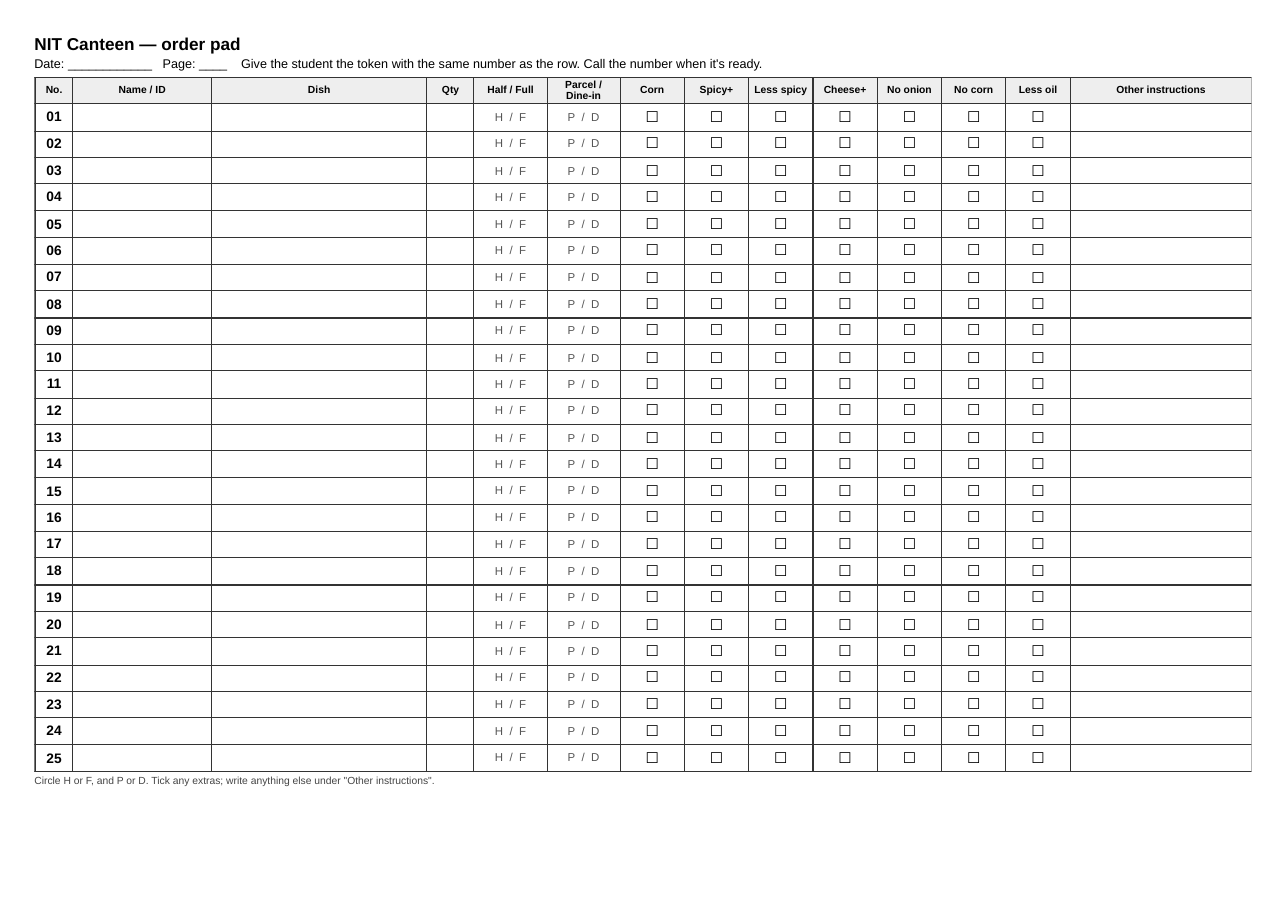
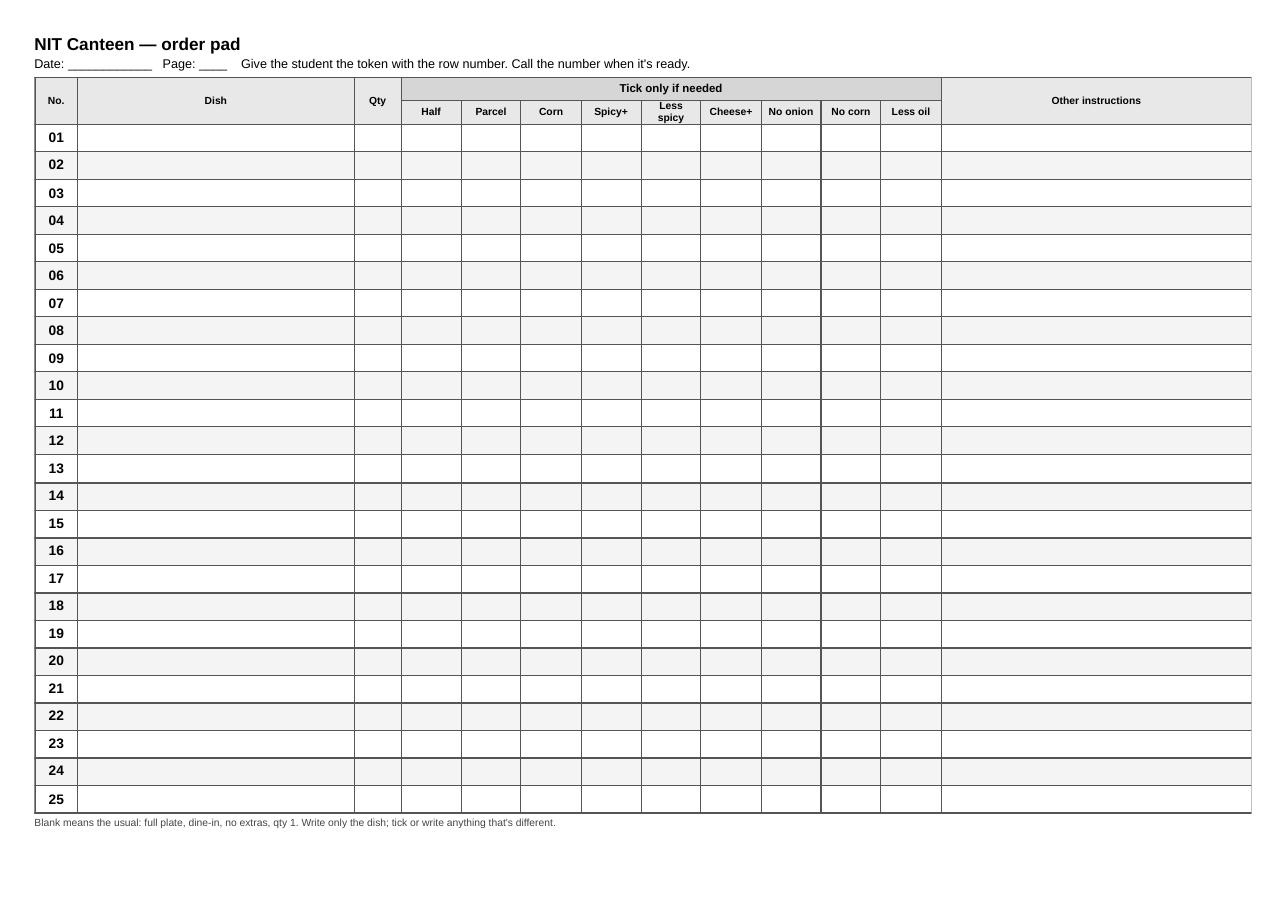
simpler order pad, tick only if needed

Changed region(s): [[0.0311, 0.0616, 0.9635, 0.9241], [0.1554, 0.0924, 0.1865, 0.1232], [0.0932, 0.0924, 0.1243, 0.1232]]

diff --git a/order_pad.html b/order_pad.html
@@ -6,24 +6,26 @@
   h1 { font-size: 15px; margin: 0 0 3px; }
   .meta { font-size: 11px; margin-bottom: 5px; }
   table { border-collapse: collapse; width: 100%; font-size: 10px; }
-  th, td { border: 1px solid #333; padding: 0 3px; height: 5.9mm; }
-  th { background: #eee; font-size: 9px; }
-  td.num { width: 7mm; font-weight: bold; text-align: center; font-size: 12px; }
-  td.who { width: 30mm; }
-  td.dish { width: 48mm; }
+  th, td { border: 1px solid #555; padding: 0 3px; height: 6.1mm; }
+  th { background: #e8e8e8; font-size: 9px; height: 5mm; }
+  th.group { background: #d6d6d6; font-size: 10px; }
+  tr:nth-child(even) td { background: #f4f4f4; }
+  td.num { width: 8mm; font-weight: bold; text-align: center; font-size: 12px; }
+  td.dish { width: 62mm; }
   td.qty { width: 9mm; }
-  td.pick { width: 15mm; text-align: center; color: #555; }
-  th.tick { width: 13mm; }
-  td.tick { text-align: center; font-size: 13px; }
+  th.tick { width: 12mm; }
   .note { font-size: 9px; margin-top: 3px; color: #444; }
 </style></head><body>
 <h1>NIT Canteen &mdash; order pad</h1>
 <div class="meta">Date: ____________ &nbsp; Page: ____ &nbsp;&nbsp;
-Give the student the token with the same number as the row. Call the number when it's ready.</div>
+Give the student the token with the row number. Call the number when it's ready.</div>
 <table>
-<tr><th>No.</th><th>Name / ID</th><th>Dish</th><th>Qty</th><th>Half / Full</th>
-<th>Parcel / Dine-in</th><th class='tick'>Corn</th><th class='tick'>Spicy+</th><th class='tick'>Less spicy</th><th class='tick'>Cheese+</th><th class='tick'>No onion</th><th class='tick'>No corn</th><th class='tick'>Less oil</th><th>Other instructions</th></tr>
-<tr><td class='num'>01</td><td class='who'></td><td class='dish'></td><td class='qty'></td><td class='pick'>H &nbsp;/&nbsp; F</td><td class='pick'>P &nbsp;/&nbsp; D</td><td class='tick'>&#9744;</td><td class='tick'>&#9744;</td><td class='tick'>&#9744;</td><td class='tick'>&#9744;</td><td class='tick'>&#9744;</td><td class='tick'>&#9744;</td><td class='tick'>&#9744;</td><td class='other'></td></tr><tr><td class='num'>02</td><td class='who'></td><td class='dish'></td><td class='qty'></td><td class='pick'>H &nbsp;/&nbsp; F</td><td class='pick'>P &nbsp;/&nbsp; D</td><td class='tick'>&#9744;</td><td class='tick'>&#9744;</td><td class='tick'>&#9744;</td><td class='tick'>&#9744;</td><td class='tick'>&#9744;</td><td class='tick'>&#9744;</td><td class='tick'>&#9744;</td><td class='other'></td></tr><tr><td class='num'>03</td><td class='who'></td><td class='dish'></td><td class='qty'></td><td class='pick'>H &nbsp;/&nbsp; F</td><td class='pick'>P &nbsp;/&nbsp; D</td><td class='tick'>&#9744;</td><td class='tick'>&#9744;</td><td class='tick'>&#9744;</td><td class='tick'>&#9744;</td><td class='tick'>&#9744;</td><td class='tick'>&#9744;</td><td class='tick'>&#9744;</td><td class='other'></td></tr><tr><td class='num'>04</td><td class='who'></td><td class='dish'></td><td class='qty'></td><td class='pick'>H &nbsp;/&nbsp; F</td><td class='pick'>P &nbsp;/&nbsp; D</td><td class='tick'>&#9744;</td><td class='tick'>&#9744;</td><td class='tick'>&#9744;</td><td class='tick'>&#9744;</td><td class='tick'>&#9744;</td><td class='tick'>&#9744;</td><td class='tick'>&#9744;</td><td class='other'></td></tr><tr><td class='num'>05</td><td class='who'></td><td class='dish'></td><td class='qty'></td><td class='pick'>H &nbsp;/&nbsp; F</td><td class='pick'>P &nbsp;/&nbsp; D</td><td class='tick'>&#9744;</td><td class='tick'>&#9744;</td><td class='tick'>&#9744;</td><td class='tick'>&#9744;</td><td class='tick'>&#9744;</td><td class='tick'>&#9744;</td><td class='tick'>&#9744;</td><td class='other'></td></tr><tr><td class='num'>06</td><td class='who'></td><td class='dish'></td><td class='qty'></td><td class='pick'>H &nbsp;/&nbsp; F</td><td class='pick'>P &nbsp;/&nbsp; D</td><td class='tick'>&#9744;</td><td class='tick'>&#9744;</td><td class='tick'>&#9744;</td><td class='tick'>&#9744;</td><td class='tick'>&#9744;</td><td class='tick'>&#9744;</td><td class='tick'>&#9744;</td><td class='other'></td></tr><tr><td class='num'>07</td><td class='who'></td><td class='dish'></td><td class='qty'></td><td class='pick'>H &nbsp;/&nbsp; F</td><td class='pick'>P &nbsp;/&nbsp; D</td><td class='tick'>&#9744;</td><td class='tick'>&#9744;</td><td class='tick'>&#9744;</td><td class='tick'>&#9744;</td><td class='tick'>&#9744;</td><td class='tick'>&#9744;</td><td class='tick'>&#9744;</td><td class='other'></td></tr><tr><td class='num'>08</td><td class='who'></td><td class='dish'></td><td class='qty'></td><td class='pick'>H &nbsp;/&nbsp; F</td><td class='pick'>P &nbsp;/&nbsp; D</td><td class='tick'>&#9744;</td><td class='tick'>&#9744;</td><td class='tick'>&#9744;</td><td class='tick'>&#9744;</td><td class='tick'>&#9744;</td><td class='tick'>&#9744;</td><td class='tick'>&#9744;</td><td class='other'></td></tr><tr><td class='num'>09</td><td class='who'></td><td class='dish'></td><td class='qty'></td><td class='pick'>H &nbsp;/&nbsp; F</td><td class='pick'>P &nbsp;/&nbsp; D</td><td class='tick'>&#9744;</td><td class='tick'>&#9744;</td><td class='tick'>&#9744;</td><td class='tick'>&#9744;</td><td class='tick'>&#9744;</td><td class='tick'>&#9744;</td><td class='tick'>&#9744;</td><td class='other'></td></tr><tr><td class='num'>10</td><td class='who'></td><td class='dish'></td><td class='qty'></td><td class='pick'>H &nbsp;/&nbsp; F</td><td class='pick'>P &nbsp;/&nbsp; D</td><td class='tick'>&#9744;</td><td class='tick'>&#9744;</td><td class='tick'>&#9744;</td><td class='tick'>&#9744;</td><td class='tick'>&#9744;</td><td class='tick'>&#9744;</td><td class='tick'>&#9744;</td><td class='other'></td></tr><tr><td class='num'>11</td><td class='who'></td><td class='dish'></td><td class='qty'></td><td class='pick'>H &nbsp;/&nbsp; F</td><td class='pick'>P &nbsp;/&nbsp; D</td><td class='tick'>&#9744;</td><td class='tick'>&#9744;</td><td class='tick'>&#9744;</td><td class='tick'>&#9744;</td><td class='tick'>&#9744;</td><td class='tick'>&#9744;</td><td class='tick'>&#9744;</td><td class='other'></td></tr><tr><td class='num'>12</td><td class='who'></td><td class='dish'></td><td class='qty'></td><td class='pick'>H &nbsp;/&nbsp; F</td><td class='pick'>P &nbsp;/&nbsp; D</td><td class='tick'>&#9744;</td><td class='tick'>&#9744;</td><td class='tick'>&#9744;</td><td class='tick'>&#9744;</td><td class='tick'>&#9744;</td><td class='tick'>&#9744;</td><td class='tick'>&#9744;</td><td class='other'></td></tr><tr><td class='num'>13</td><td class='who'></td><td class='dish'></td><td class='qty'></td><td class='pick'>H &nbsp;/&nbsp; F</td><td class='pick'>P &nbsp;/&nbsp; D</td><td class='tick'>&#9744;</td><td class='tick'>&#9744;</td><td class='tick'>&#9744;</td><td class='tick'>&#9744;</td><td class='tick'>&#9744;</td><td class='tick'>&#9744;</td><td class='tick'>&#9744;</td><td class='other'></td></tr><tr><td class='num'>14</td><td class='who'></td><td class='dish'></td><td class='qty'></td><td class='pick'>H &nbsp;/&nbsp; F</td><td class='pick'>P &nbsp;/&nbsp; D</td><td class='tick'>&#9744;</td><td class='tick'>&#9744;</td><td class='tick'>&#9744;</td><td class='tick'>&#9744;</td><td class='tick'>&#9744;</td><td class='tick'>&#9744;</td><td class='tick'>&#9744;</td><td class='other'></td></tr><tr><td class='num'>15</td><td class='who'></td><td class='dish'></td><td class='qty'></td><td class='pick'>H &nbsp;/&nbsp; F</td><td class='pick'>P &nbsp;/&nbsp; D</td><td class='tick'>&#9744;</td><td class='tick'>&#9744;</td><td class='tick'>&#9744;</td><td class='tick'>&#9744;</td><td class='tick'>&#9744;</td><td class='tick'>&#9744;</td><td class='tick'>&#9744;</td><td class='other'></td></tr><tr><td class='num'>16</td><td class='who'></td><td class='dish'></td><td class='qty'></td><td class='pick'>H &nbsp;/&nbsp; F</td><td class='pick'>P &nbsp;/&nbsp; D</td><td class='tick'>&#9744;</td><td class='tick'>&#9744;</td><td class='tick'>&#9744;</td><td class='tick'>&#9744;</td><td class='tick'>&#9744;</td><td class='tick'>&#9744;</td><td class='tick'>&#9744;</td><td class='other'></td></tr><tr><td class='num'>17</td><td class='who'></td><td class='dish'></td><td class='qty'></td><td class='pick'>H &nbsp;/&nbsp; F</td><td class='pick'>P &nbsp;/&nbsp; D</td><td class='tick'>&#9744;</td><td class='tick'>&#9744;</td><td class='tick'>&#9744;</td><td class='tick'>&#9744;</td><td class='tick'>&#9744;</td><td class='tick'>&#9744;</td><td class='tick'>&#9744;</td><td class='other'></td></tr><tr><td class='num'>18</td><td class='who'></td><td class='dish'></td><td class='qty'></td><td class='pick'>H &nbsp;/&nbsp; F</td><td class='pick'>P &nbsp;/&nbsp; D</td><td class='tick'>&#9744;</td><td class='tick'>&#9744;</td><td class='tick'>&#9744;</td><td class='tick'>&#9744;</td><td class='tick'>&#9744;</td><td class='tick'>&#9744;</td><td class='tick'>&#9744;</td><td class='other'></td></tr><tr><td class='num'>19</td><td class='who'></td><td class='dish'></td><td class='qty'></td><td class='pick'>H &nbsp;/&nbsp; F</td><td class='pick'>P &nbsp;/&nbsp; D</td><td class='tick'>&#9744;</td><td class='tick'>&#9744;</td><td class='tick'>&#9744;</td><td class='tick'>&#9744;</td><td class='tick'>&#9744;</td><td class='tick'>&#9744;</td><td class='tick'>&#9744;</td><td class='other'></td></tr><tr><td class='num'>20</td><td class='who'></td><td class='dish'></td><td class='qty'></td><td class='pick'>H &nbsp;/&nbsp; F</td><td class='pick'>P &nbsp;/&nbsp; D</td><td class='tick'>&#9744;</td><td class='tick'>&#9744;</td><td class='tick'>&#9744;</td><td class='tick'>&#9744;</td><td class='tick'>&#9744;</td><td class='tick'>&#9744;</td><td class='tick'>&#9744;</td><td class='other'></td></tr><tr><td class='num'>21</td><td class='who'></td><td class='dish'></td><td class='qty'></td><td class='pick'>H &nbsp;/&nbsp; F</td><td class='pick'>P &nbsp;/&nbsp; D</td><td class='tick'>&#9744;</td><td class='tick'>&#9744;</td><td class='tick'>&#9744;</td><td class='tick'>&#9744;</td><td class='tick'>&#9744;</td><td class='tick'>&#9744;</td><td class='tick'>&#9744;</td><td class='other'></td></tr><tr><td class='num'>22</td><td class='who'></td><td class='dish'></td><td class='qty'></td><td class='pick'>H &nbsp;/&nbsp; F</td><td class='pick'>P &nbsp;/&nbsp; D</td><td class='tick'>&#9744;</td><td class='tick'>&#9744;</td><td class='tick'>&#9744;</td><td class='tick'>&#9744;</td><td class='tick'>&#9744;</td><td class='tick'>&#9744;</td><td class='tick'>&#9744;</td><td class='other'></td></tr><tr><td class='num'>23</td><td class='who'></td><td class='dish'></td><td class='qty'></td><td class='pick'>H &nbsp;/&nbsp; F</td><td class='pick'>P &nbsp;/&nbsp; D</td><td class='tick'>&#9744;</td><td class='tick'>&#9744;</td><td class='tick'>&#9744;</td><td class='tick'>&#9744;</td><td class='tick'>&#9744;</td><td class='tick'>&#9744;</td><td class='tick'>&#9744;</td><td class='other'></td></tr><tr><td class='num'>24</td><td class='who'></td><td class='dish'></td><td class='qty'></td><td class='pick'>H &nbsp;/&nbsp; F</td><td class='pick'>P &nbsp;/&nbsp; D</td><td class='tick'>&#9744;</td><td class='tick'>&#9744;</td><td class='tick'>&#9744;</td><td class='tick'>&#9744;</td><td class='tick'>&#9744;</td><td class='tick'>&#9744;</td><td class='tick'>&#9744;</td><td class='other'></td></tr><tr><td class='num'>25</td><td class='who'></td><td class='dish'></td><td class='qty'></td><td class='pick'>H &nbsp;/&nbsp; F</td><td class='pick'>P &nbsp;/&nbsp; D</td><td class='tick'>&#9744;</td><td class='tick'>&#9744;</td><td class='tick'>&#9744;</td><td class='tick'>&#9744;</td><td class='tick'>&#9744;</td><td class='tick'>&#9744;</td><td class='tick'>&#9744;</td><td class='other'></td></tr>
+<tr><th rowspan="2">No.</th><th rowspan="2">Dish</th><th rowspan="2">Qty</th>
+<th class="group" colspan="9">Tick only if needed</th>
+<th rowspan="2">Other instructions</th></tr>
+<tr><th class='tick'>Half</th><th class='tick'>Parcel</th><th class='tick'>Corn</th><th class='tick'>Spicy+</th><th class='tick'>Less spicy</th><th class='tick'>Cheese+</th><th class='tick'>No onion</th><th class='tick'>No corn</th><th class='tick'>Less oil</th></tr>
+<tr><td class='num'>01</td><td class='dish'></td><td class='qty'></td><td class='tick'></td><td class='tick'></td><td class='tick'></td><td class='tick'></td><td class='tick'></td><td class='tick'></td><td class='tick'></td><td class='tick'></td><td class='tick'></td><td class='other'></td></tr><tr><td class='num'>02</td><td class='dish'></td><td class='qty'></td><td class='tick'></td><td class='tick'></td><td class='tick'></td><td class='tick'></td><td class='tick'></td><td class='tick'></td><td class='tick'></td><td class='tick'></td><td class='tick'></td><td class='other'></td></tr><tr><td class='num'>03</td><td class='dish'></td><td class='qty'></td><td class='tick'></td><td class='tick'></td><td class='tick'></td><td class='tick'></td><td class='tick'></td><td class='tick'></td><td class='tick'></td><td class='tick'></td><td class='tick'></td><td class='other'></td></tr><tr><td class='num'>04</td><td class='dish'></td><td class='qty'></td><td class='tick'></td><td class='tick'></td><td class='tick'></td><td class='tick'></td><td class='tick'></td><td class='tick'></td><td class='tick'></td><td class='tick'></td><td class='tick'></td><td class='other'></td></tr><tr><td class='num'>05</td><td class='dish'></td><td class='qty'></td><td class='tick'></td><td class='tick'></td><td class='tick'></td><td class='tick'></td><td class='tick'></td><td class='tick'></td><td class='tick'></td><td class='tick'></td><td class='tick'></td><td class='other'></td></tr><tr><td class='num'>06</td><td class='dish'></td><td class='qty'></td><td class='tick'></td><td class='tick'></td><td class='tick'></td><td class='tick'></td><td class='tick'></td><td class='tick'></td><td class='tick'></td><td class='tick'></td><td class='tick'></td><td class='other'></td></tr><tr><td class='num'>07</td><td class='dish'></td><td class='qty'></td><td class='tick'></td><td class='tick'></td><td class='tick'></td><td class='tick'></td><td class='tick'></td><td class='tick'></td><td class='tick'></td><td class='tick'></td><td class='tick'></td><td class='other'></td></tr><tr><td class='num'>08</td><td class='dish'></td><td class='qty'></td><td class='tick'></td><td class='tick'></td><td class='tick'></td><td class='tick'></td><td class='tick'></td><td class='tick'></td><td class='tick'></td><td class='tick'></td><td class='tick'></td><td class='other'></td></tr><tr><td class='num'>09</td><td class='dish'></td><td class='qty'></td><td class='tick'></td><td class='tick'></td><td class='tick'></td><td class='tick'></td><td class='tick'></td><td class='tick'></td><td class='tick'></td><td class='tick'></td><td class='tick'></td><td class='other'></td></tr><tr><td class='num'>10</td><td class='dish'></td><td class='qty'></td><td class='tick'></td><td class='tick'></td><td class='tick'></td><td class='tick'></td><td class='tick'></td><td class='tick'></td><td class='tick'></td><td class='tick'></td><td class='tick'></td><td class='other'></td></tr><tr><td class='num'>11</td><td class='dish'></td><td class='qty'></td><td class='tick'></td><td class='tick'></td><td class='tick'></td><td class='tick'></td><td class='tick'></td><td class='tick'></td><td class='tick'></td><td class='tick'></td><td class='tick'></td><td class='other'></td></tr><tr><td class='num'>12</td><td class='dish'></td><td class='qty'></td><td class='tick'></td><td class='tick'></td><td class='tick'></td><td class='tick'></td><td class='tick'></td><td class='tick'></td><td class='tick'></td><td class='tick'></td><td class='tick'></td><td class='other'></td></tr><tr><td class='num'>13</td><td class='dish'></td><td class='qty'></td><td class='tick'></td><td class='tick'></td><td class='tick'></td><td class='tick'></td><td class='tick'></td><td class='tick'></td><td class='tick'></td><td class='tick'></td><td class='tick'></td><td class='other'></td></tr><tr><td class='num'>14</td><td class='dish'></td><td class='qty'></td><td class='tick'></td><td class='tick'></td><td class='tick'></td><td class='tick'></td><td class='tick'></td><td class='tick'></td><td class='tick'></td><td class='tick'></td><td class='tick'></td><td class='other'></td></tr><tr><td class='num'>15</td><td class='dish'></td><td class='qty'></td><td class='tick'></td><td class='tick'></td><td class='tick'></td><td class='tick'></td><td class='tick'></td><td class='tick'></td><td class='tick'></td><td class='tick'></td><td class='tick'></td><td class='other'></td></tr><tr><td class='num'>16</td><td class='dish'></td><td class='qty'></td><td class='tick'></td><td class='tick'></td><td class='tick'></td><td class='tick'></td><td class='tick'></td><td class='tick'></td><td class='tick'></td><td class='tick'></td><td class='tick'></td><td class='other'></td></tr><tr><td class='num'>17</td><td class='dish'></td><td class='qty'></td><td class='tick'></td><td class='tick'></td><td class='tick'></td><td class='tick'></td><td class='tick'></td><td class='tick'></td><td class='tick'></td><td class='tick'></td><td class='tick'></td><td class='other'></td></tr><tr><td class='num'>18</td><td class='dish'></td><td class='qty'></td><td class='tick'></td><td class='tick'></td><td class='tick'></td><td class='tick'></td><td class='tick'></td><td class='tick'></td><td class='tick'></td><td class='tick'></td><td class='tick'></td><td class='other'></td></tr><tr><td class='num'>19</td><td class='dish'></td><td class='qty'></td><td class='tick'></td><td class='tick'></td><td class='tick'></td><td class='tick'></td><td class='tick'></td><td class='tick'></td><td class='tick'></td><td class='tick'></td><td class='tick'></td><td class='other'></td></tr><tr><td class='num'>20</td><td class='dish'></td><td class='qty'></td><td class='tick'></td><td class='tick'></td><td class='tick'></td><td class='tick'></td><td class='tick'></td><td class='tick'></td><td class='tick'></td><td class='tick'></td><td class='tick'></td><td class='other'></td></tr><tr><td class='num'>21</td><td class='dish'></td><td class='qty'></td><td class='tick'></td><td class='tick'></td><td class='tick'></td><td class='tick'></td><td class='tick'></td><td class='tick'></td><td class='tick'></td><td class='tick'></td><td class='tick'></td><td class='other'></td></tr><tr><td class='num'>22</td><td class='dish'></td><td class='qty'></td><td class='tick'></td><td class='tick'></td><td class='tick'></td><td class='tick'></td><td class='tick'></td><td class='tick'></td><td class='tick'></td><td class='tick'></td><td class='tick'></td><td class='other'></td></tr><tr><td class='num'>23</td><td class='dish'></td><td class='qty'></td><td class='tick'></td><td class='tick'></td><td class='tick'></td><td class='tick'></td><td class='tick'></td><td class='tick'></td><td class='tick'></td><td class='tick'></td><td class='tick'></td><td class='other'></td></tr><tr><td class='num'>24</td><td class='dish'></td><td class='qty'></td><td class='tick'></td><td class='tick'></td><td class='tick'></td><td class='tick'></td><td class='tick'></td><td class='tick'></td><td class='tick'></td><td class='tick'></td><td class='tick'></td><td class='other'></td></tr><tr><td class='num'>25</td><td class='dish'></td><td class='qty'></td><td class='tick'></td><td class='tick'></td><td class='tick'></td><td class='tick'></td><td class='tick'></td><td class='tick'></td><td class='tick'></td><td class='tick'></td><td class='tick'></td><td class='other'></td></tr>
 </table>
-<div class="note">Circle H or F, and P or D. Tick any extras; write anything else under "Other instructions".</div>
+<div class="note">Blank means the usual: full plate, dine-in, no extras, qty 1.
+Write only the dish; tick or write anything that's different.</div>
 </body></html>

diff --git a/canteen_tokens.py b/canteen_tokens.py
@@ -26,6 +26,7 @@ Only uses the Python standard library.
 
 import csv
 import html
+import json
 import math
 import sys
 from collections import Counter, defaultdict
@@ -47,6 +48,7 @@ OBSERVED_EXTRAS = ["Spicy+", "Less spicy", "Cheese+", "No onion", "No corn", "Le
 
 SLIPS_FILE = "slips.txt"
 PAD_FILE = "order_pad.html"
+PAD_LAYOUT_FILE = "order_pad_layout.json"   # tells order_ocr.py which columns the printed pad has
 # ---------------------------------------------------------
 
 REQUIRED_COLUMNS = ["source", "item", "variant"]   # can't analyse orders without these
@@ -63,6 +65,12 @@ def clean(value):
 def unknown(value):
     """True if the value is blank or just question marks (couldn't read it)."""
     return value.replace("?", "").strip() == ""
+
+
+def has_readable_dish(row):
+    """Item must be readable. Variant may be blank (e.g. 'chai'), but not just '?'."""
+    variant = row.get("variant") or ""
+    return not unknown(row.get("item") or "") and not (variant.strip() and unknown(variant))
 
 
 def parse_time(text):
@@ -133,8 +141,6 @@ def check_row(row, seen_ids):
     seen_ids.add(rid)
     if not row["item"]:
         problems.append("item is empty")
-    if not row["variant"]:
-        problems.append("variant is empty")
     if row["portion"] not in ("half", "full", "?", ""):
         problems.append(f"portion '{row['portion']}' should be half/full")
     qty = row["qty"]
@@ -319,13 +325,16 @@ def choose_tick_boxes(extra_counts, observed=OBSERVED_EXTRAS, limit=MAX_TICK_BOX
 
 
 def write_order_pad(path, boxes, rows=PAD_ROWS):
-    """A printable A4 (landscape) order pad. Row number = token number."""
-    head = "".join(f"<th class='tick'>{html.escape(b)}</th>" for b in boxes)
-    ticks = "<td class='tick'>&#9744;</td>" * len(boxes)
+    """A printable A4 (landscape) order pad. Row number = token number.
+    Kamal writes only the dish on each row; everything else is ticked ONLY
+    when it differs from the usual order (blank = full plate, dine-in,
+    no extras, qty 1)."""
+    ticks = ["Half", "Parcel"] + list(boxes)
+    sub_head = "".join(f"<th class='tick'>{html.escape(t)}</th>" for t in ticks)
+    empty = "<td class='tick'></td>" * len(ticks)
     body = "".join(
-        f"<tr><td class='num'>{n:02d}</td><td class='who'></td><td class='dish'></td>"
-        f"<td class='qty'></td><td class='pick'>H &nbsp;/&nbsp; F</td>"
-        f"<td class='pick'>P &nbsp;/&nbsp; D</td>{ticks}<td class='other'></td></tr>"
+        f"<tr><td class='num'>{n:02d}</td><td class='dish'></td><td class='qty'></td>"
+        f"{empty}<td class='other'></td></tr>"
         for n in range(1, rows + 1))
     page = f"""<!DOCTYPE html>
 <html><head><meta charset="utf-8"><title>NIT Canteen order pad</title>
@@ -335,29 +344,41 @@ def write_order_pad(path, boxes, rows=PAD_ROWS):
   h1 {{ font-size: 15px; margin: 0 0 3px; }}
   .meta {{ font-size: 11px; margin-bottom: 5px; }}
   table {{ border-collapse: collapse; width: 100%; font-size: 10px; }}
-  th, td {{ border: 1px solid #333; padding: 0 3px; height: 5.9mm; }}
-  th {{ background: #eee; font-size: 9px; }}
-  td.num {{ width: 7mm; font-weight: bold; text-align: center; font-size: 12px; }}
-  td.who {{ width: 30mm; }}
-  td.dish {{ width: 48mm; }}
+  th, td {{ border: 1px solid #555; padding: 0 3px; height: 6.1mm; }}
+  th {{ background: #e8e8e8; font-size: 9px; height: 5mm; }}
+  th.group {{ background: #d6d6d6; font-size: 10px; }}
+  tr:nth-child(even) td {{ background: #f4f4f4; }}
+  td.num {{ width: 8mm; font-weight: bold; text-align: center; font-size: 12px; }}
+  td.dish {{ width: 62mm; }}
   td.qty {{ width: 9mm; }}
-  td.pick {{ width: 15mm; text-align: center; color: #555; }}
-  th.tick {{ width: 13mm; }}
-  td.tick {{ text-align: center; font-size: 13px; }}
+  th.tick {{ width: 12mm; }}
   .note {{ font-size: 9px; margin-top: 3px; color: #444; }}
 </style></head><body>
 <h1>NIT Canteen &mdash; order pad</h1>
 <div class="meta">Date: ____________ &nbsp; Page: ____ &nbsp;&nbsp;
-Give the student the token with the same number as the row. Call the number when it's ready.</div>
+Give the student the token with the row number. Call the number when it's ready.</div>
 <table>
-<tr><th>No.</th><th>Name / ID</th><th>Dish</th><th>Qty</th><th>Half / Full</th>
-<th>Parcel / Dine-in</th>{head}<th>Other instructions</th></tr>
+<tr><th rowspan="2">No.</th><th rowspan="2">Dish</th><th rowspan="2">Qty</th>
+<th class="group" colspan="{len(ticks)}">Tick only if needed</th>
+<th rowspan="2">Other instructions</th></tr>
+<tr>{sub_head}</tr>
 {body}
 </table>
-<div class="note">Circle H or F, and P or D. Tick any extras; write anything else under "Other instructions".</div>
+<div class="note">Blank means the usual: full plate, dine-in, no extras, qty 1.
+Write only the dish; tick or write anything that's different.</div>
 </body></html>"""
     with open(path, "w", encoding="utf-8") as out:
         out.write(page)
+
+
+def write_pad_layout(path, boxes, rows=PAD_ROWS):
+    """Save the printed pad's columns so order_ocr.py reads the right tick boxes.
+    If the tick boxes ever change, reprint the pad."""
+    ticks = ["Half", "Parcel"] + list(boxes)
+    layout = {"rows": rows, "ticks": ticks,
+              "columns": ["No.", "Dish", "Qty"] + ticks + ["Other instructions"]}
+    with open(path, "w", encoding="utf-8") as out:
+        json.dump(layout, out, indent=2)
 
 
 def write_slips(path, rows, lookalike_ids):
@@ -393,7 +414,7 @@ def main():
         if problems:
             print(f"  WARNING line {r['_line']} (row {r['row_id']}): " + "; ".join(problems))
 
-    readable = [r for r in rows if not unknown(r["item"]) and not unknown(r["variant"])]
+    readable = [r for r in rows if has_readable_dish(r)]
     unreadable = [r["row_id"] for r in rows if r not in readable]
     print(f"\nRead {len(rows)} orders. {len(readable)} with a readable dish, "
           f"{len(unreadable)} without (rows {', '.join(unreadable) or '-'}).")
@@ -472,6 +493,7 @@ def main():
     extra_counts = count_extras(rows)
     boxes = choose_tick_boxes(extra_counts)
     write_order_pad(PAD_FILE, boxes)
+    write_pad_layout(PAD_LAYOUT_FILE, boxes)
     seen = ", ".join(f"{n} ({c})" for n, c in extra_counts.most_common()) or "none"
     print(f"Order pad with {PAD_ROWS} numbered rows written to {PAD_FILE}.")
     print(f"  Extras in the data: {seen}  -> tick box if seen {MIN_DATA_EXTRA}+ times")

diff --git a/test_canteen_tokens.py b/test_canteen_tokens.py
@@ -56,10 +56,13 @@ class CheckRowTests(unittest.TestCase):
     def test_unreadable_values_are_allowed(self):
         self.assertEqual(ct.check_row(order(portion="?", qty="?"), set()), [])
 
-    def test_empty_item_and_variant_are_flagged(self):
-        problems = ct.check_row(order(item="", variant=""), set())
-        self.assertIn("item is empty", problems)
-        self.assertIn("variant is empty", problems)
+    def test_empty_item_is_flagged(self):
+        self.assertIn("item is empty", ct.check_row(order(item=""), set()))
+
+    def test_blank_variant_is_a_readable_dish_but_question_mark_is_not(self):
+        self.assertTrue(ct.has_readable_dish(order(item="chai", variant="")))
+        self.assertFalse(ct.has_readable_dish(order(item="chowmein", variant="?")))
+        self.assertFalse(ct.has_readable_dish(order(item="?", variant="veg")))
 
     def test_zero_and_negative_qty_are_flagged(self):
         self.assertTrue(ct.check_row(order(qty="0"), set()))
@@ -237,9 +240,9 @@ class OrderPadTests(unittest.TestCase):
             ct.write_order_pad(path, ["Spicy+", "No onion"], rows=3)
             with open(path, encoding="utf-8") as f:
                 text = f.read()
-        for expected in ("No.", "Name / ID", "Dish", "Qty", "Half / Full",
-                         "Parcel / Dine-in", "Spicy+", "No onion", "Other instructions",
-                         ">01<", ">03<"):
+        for expected in ("No.", "Dish", "Qty", "Tick only if needed", ">Half<", ">Parcel<",
+                         "Spicy+", "No onion", "Other instructions",
+                         "Blank means the usual", ">01<", ">03<"):
             self.assertIn(expected, text)
         self.assertNotIn(">04<", text)
 
@@ -252,7 +255,9 @@ class RealDataTests(unittest.TestCase):
     def test_real_data_numbers_match_the_readme(self):
         rows, issues, fatal = ct.read_orders("data.csv")
         self.assertIsNone(fatal)
-        readable = [r for r in rows if not ct.unknown(r["item"]) and not ct.unknown(r["variant"])]
+        # only my fieldwork rows - orders imported later from pad photos are excluded
+        rows = [r for r in rows if r["source"].startswith("notepad_")]
+        readable = [r for r in rows if ct.has_readable_dish(r)]
         risk = ct.summarise_risks(readable)
         self.assertEqual((len(rows), len(readable)), (21, 18))
         self.assertEqual(len(risk["exposed"]), 8)                        # 8 of 18 = 44%
